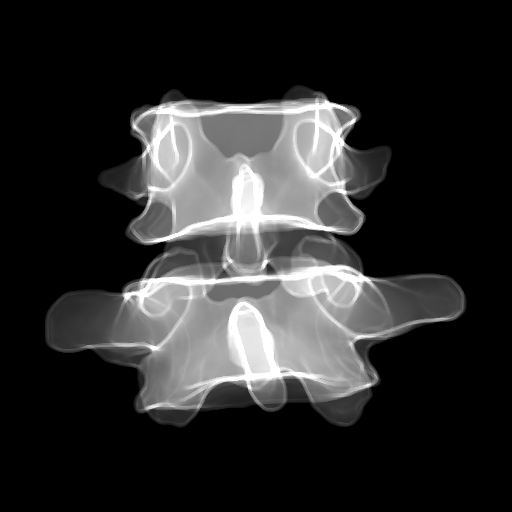
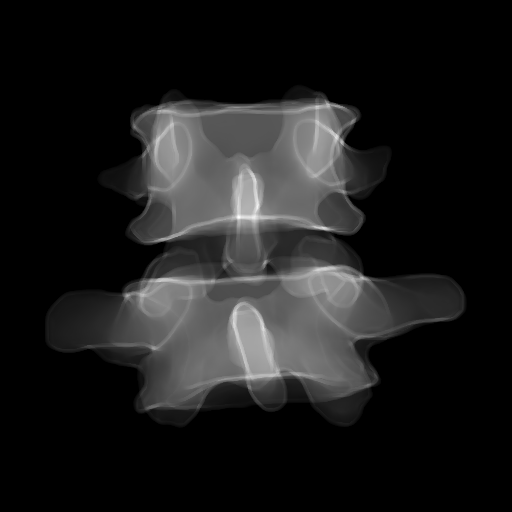
Final version of XrayGen

Changed region(s): [[0.0938, 0.1562, 0.9062, 0.8438]]

diff --git a/tools/stl_xray_preview.py b/tools/stl_xray_preview.py
@@ -158,11 +158,13 @@ def _build_arg_parser() -> argparse.ArgumentParser:
     p.add_argument("--shell-pitch-mm", type=float, default=0.2,
                     help="Voxel pitch for --shell-core-split. Finer = more "
                          "accurate, slower. Default 0.2mm.")
-    p.add_argument("--trabecular-density", type=float, default=0.2,
-                    help="Trabecular core density, g/cm3. Default 0.2 "
-                         "(midpoint of the 0.09-0.35 g/cm3 literature range "
-                         "for vertebral trabecular apparent density — tune "
-                         "within that range, not a precise figure).")
+    p.add_argument("--trabecular-density", type=float,
+                    default=getattr(cfg, "SPINE_TRABECULAR_DENSITY", 0.2),
+                    help=f"Trabecular core density, g/cm3. Default: "
+                         f"{getattr(cfg, 'SPINE_TRABECULAR_DENSITY', 0.2)} "
+                         f"(from config.py; literature range is roughly "
+                         f"0.09-0.35 g/cm3 for vertebral trabecular "
+                         f"apparent density).")
     p.add_argument("--shell-target-faces", type=int, default=30000,
                     help="Decimate shell/core meshes to ~this many faces "
                          "each after marching cubes (which produces far "
@@ -494,7 +496,7 @@ def build_preview_cfg(
     shell_path: Path | None = None,
     core_path: Path | None = None,
     trabecular_compound: str = "Ca10(PO4)6(OH)2",
-    trabecular_density: float = 0.2,
+    trabecular_density: float = 0.35,
 ) -> SimpleNamespace:
     """
     Build a lightweight config namespace for XRaySimulator that renders ONLY
@@ -506,10 +508,11 @@ def build_preview_cfg(
 
     shell_path/core_path: if both given (from split_shell_core()), the
     renderer uses the two-material shell+core mode instead of a single
-    uniform-density mesh. trabecular_density defaults to 0.2 g/cm3 — the
-    approximate midpoint of the 0.09-0.35 g/cm3 range reported across
-    studies of vertebral trabecular apparent (wet) density; tune within
-    that range rather than trusting 0.2 as precise.
+    uniform-density mesh. trabecular_density defaults to 0.35 g/cm3 — the
+    top of the 0.09-0.35 g/cm3 range reported across studies of vertebral
+    trabecular apparent (wet) density (raised from an initial 0.2 midpoint
+    after visual comparison favored more contrast — still within the cited
+    range, not an arbitrary number).
     """
     return SimpleNamespace(
         GVXR_CONTEXT=cfg.GVXR_CONTEXT,

diff --git a/config.py b/config.py
@@ -130,7 +130,17 @@ PLATFORM_STL_PATH = ""           # set to "models/platform.stl" if available
 # For a PETG-printed model without bone-equivalent coating, use:
 #     SPINE_MATERIAL_COMPOUND = "C5H8O2"  ;  SPINE_MATERIAL_DENSITY = 1.27
 SPINE_MATERIAL_COMPOUND = "Ca10(PO4)6(OH)2"   # hydroxyapatite
-SPINE_MATERIAL_DENSITY  = 1.92                 # g/cm³
+SPINE_MATERIAL_DENSITY  = 1.92                 # g/cm³  (cortical shell)
+
+# Trabecular core (only used when SPINE_SHELL_STL_PATH/SPINE_CORE_STL_PATH
+# are both set — see tools/stl_xray_preview.py's split_shell_core()).
+# 0.35 g/cm3 = top of the 0.09-0.35 g/cm3 range reported across studies of
+# vertebral trabecular apparent (wet) density; raised here from an initial
+# 0.2 (literature-range midpoint) after visual comparison showed more
+# contrast was preferred — this is a real, cited upper bound, not an
+# arbitrary contrast tweak.
+SPINE_TRABECULAR_COMPOUND = "Ca10(PO4)6(OH)2"
+SPINE_TRABECULAR_DENSITY  = 0.35               # g/cm³  (was 0.2)
 
 # Virtual C-arm geometry (mm, gVXR world = CAD platform space).
 #
@@ -196,18 +206,6 @@ GVXR_PIXEL_SIZE_MM   = 0.25          # isotropic pixel pitch (128 mm FOV total)
 # Beam parameters
 GVXR_ENERGY_MEV   = 0.08    # 80 keV — standard fluoroscopy energy
 GVXR_PHOTON_COUNT = 5000    # was 1000; higher = less Monte Carlo graininess, slower
-
-# Display windowing (percentile-based, not raw min/max). A naive full-range
-# stretch anchors on the cortical shell (highest attenuation) and compresses
-# the trabecular core (much lower attenuation) into a narrow band near
-# black — this is what caused the "hollow-looking core" appearance. This
-# mimics how real fluoro/radiography displays work: map a CHOSEN sub-range
-# to visible contrast and let outside-that-range saturate, rather than
-# showing the full raw dynamic range. Tune these two numbers against a real
-# render — the right window depends on how much of the frame is background
-# vs anatomy, which isn't something to guess from first principles.
-GVXR_WINDOW_LOW_PCT  = 2.0   # percentile mapped to pure white (densest tissue)
-GVXR_WINDOW_HIGH_PCT = 98.0  # percentile mapped to pure black (background)
 
 # ─────────────────────────────────────────────────────────────────────────────
 # CAD-derived registration values   ← FROM CAD (fill these in from Fusion 360)

diff --git a/core/xray_sim.py b/core/xray_sim.py
@@ -483,42 +483,14 @@ class XRaySimulator:
         _gvxr.setDetectorPixelSize(view.pixel_size_mm, view.pixel_size_mm, "mm")
         _gvxr.computeXRayImage()
         raw = np.array(_gvxr.getLastXRayImage())
-        return self._to_display(raw, cfg)
+        return self._to_display(raw)
 
     @staticmethod
-    def _to_display(raw: np.ndarray, cfg) -> np.ndarray:
-        """
-        Log-compress energy fluence, window, invert -> anatomy bright on
-        dark background.
-
-        Windowing (not a plain min-max stretch) is the fix for cortical
-        shell + trabecular core renders looking "hollow" in the middle:
-        cortical bone (~1.92 g/cm3) attenuates roughly 10x more than
-        trabecular (~0.2 g/cm3), so a naive full-range stretch anchors on
-        the shell and compresses the core into a narrow band near black.
-        Real fluoro/radiography displays never show the raw full dynamic
-        range either — they window to a chosen sub-range and deliberately
-        saturate outside it, which is exactly why real images show
-        filled-in cancellous bone rather than "denser tissue = darker
-        empty-looking" the way the un-windowed version did here.
-
-        Percentile-based rather than fixed absolute bounds, since the log-
-        fluence range shifts with photon count/energy/geometry and a fixed
-        window would need re-tuning every time one of those changes; this
-        adapts automatically and still achieves the same "ignore extreme
-        outliers, stretch the range that matters" effect.
-        """
+    def _to_display(raw: np.ndarray) -> np.ndarray:
+        """Log-compress energy fluence, invert → anatomy bright on dark background."""
         safe = np.clip(raw, 1e-10, None)
         log  = np.log(safe)
-        lo_pct = getattr(cfg, 'GVXR_WINDOW_LOW_PCT', 2.0)
-        hi_pct = getattr(cfg, 'GVXR_WINDOW_HIGH_PCT', 98.0)
-        lo, hi = np.percentile(log, [lo_pct, hi_pct])
-        if hi <= lo:  # degenerate (near-flat image) — fall back to true min/max
-            lo, hi = float(log.min()), float(log.max())
-            if hi <= lo:
-                hi = lo + 1e-6
-        windowed = np.clip((log - lo) / (hi - lo), 0.0, 1.0)
-        norm = (windowed * 255).astype(np.uint8)
+        norm = cv2.normalize(log, None, 0, 255, cv2.NORM_MINMAX).astype(np.uint8)
         return cv2.bitwise_not(norm)
 
     # ── Fast probe overlay (analytic projection, no re-render) ───────────
